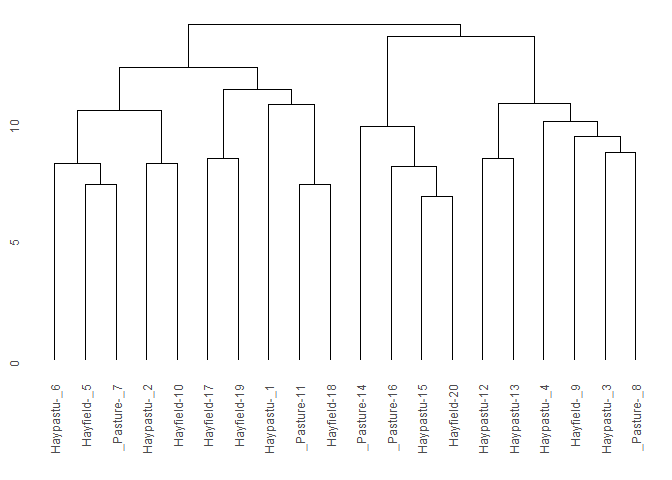
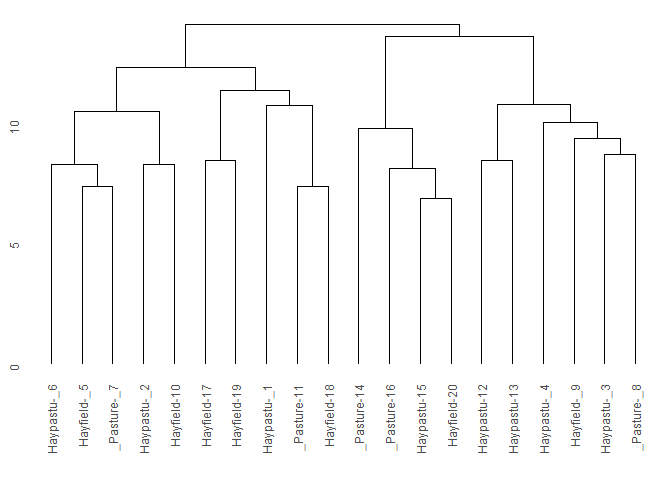
rebuild README.md and figures
Regenerated from README.Rmd with the seed fixed. Besides the p-values
now being stable, knitr 1.51 adds alt="" to image tags and the package
startup messages differ from the previous build.

diff --git a/README.md b/README.md
@@ -8,7 +8,7 @@ The goal of ecan is to support ecological analysis.
 ``` r
 install.packages("ecan")
   # development
-  # install.packages("devtools")
+  # install.packages("remotes")
 remotes::install_github("matutosi/ecan")
 ```
 
@@ -26,9 +26,15 @@ You can read docs in <https://matutosi.github.io/ecan/>
 library(ecan)
 library(vegan)
 #> Loading required package: permute
-#> Loading required package: lattice
-#> This is vegan 2.6-6.1
 library(dplyr)
+#> 
+#> Attaching package: 'dplyr'
+#> The following objects are masked from 'package:stats':
+#> 
+#>     filter, lag
+#> The following objects are masked from 'package:base':
+#> 
+#>     intersect, setdiff, setequal, union
 library(stringr)
 library(tibble)
 library(ggplot2)
@@ -84,7 +90,7 @@ div %>%
     geom_jitter(height = 0, width = 0.1)
 ```
 
-<img src="man/figures/README-diversity-1.png" width="60%" />
+<img src="man/figures/README-diversity-1.png" alt="" width="60%" />
 
 ### Indicator Species Analysis (ISA, ind val)
 
@@ -213,13 +219,13 @@ ind_val(df, group = "Moisture", row_data = TRUE)
 #> 
 #> $pval
 #> Achimill Elymrepe Lolipere  Poaprat  Poatriv Alopgeni Bellpere Bromhord 
-#>    0.261    0.438    0.074    0.352    0.493    0.056    0.150    0.204 
+#>    0.264    0.441    0.076    0.344    0.512    0.059    0.110    0.198 
 #> Scorautu Trifrepe Agrostol Bracruta Cirsarve Sagiproc Anthodor Planlanc 
-#>    0.797    0.687    0.396    0.582    0.317    0.067    0.354    0.087 
+#>    0.823    0.676    0.366    0.613    0.300    0.073    0.326    0.096 
 #> Rumeacet Trifprat Juncbufo Eleopalu Juncarti Ranuflam Vicilath Hyporadi 
-#>    0.084    0.143    0.004    0.023    0.210    0.001    0.688    1.000 
+#>    0.093    0.136    0.002    0.023    0.206    0.002    0.703    1.000 
 #> Chenalbu Comapalu Callcusp Airaprae Salirepe Empenigr 
-#>    1.000    0.453    0.080    0.762    0.608    1.000 
+#>    1.000    0.437    0.078    0.752    0.600    1.000 
 #> 
 #> $error
 #> [1] 0
@@ -231,31 +237,31 @@ ind_val(df, group = "Management")
 #> # A tibble: 30 × 4
 #>    Management species  ind.val p.value
 #>    <fct>      <chr>      <dbl>   <dbl>
-#>  1 SF         Elymrepe   0.188   0.697
-#>  2 SF         Alopgeni   0.547   0.042
-#>  3 SF         Agrostol   0.472   0.059
+#>  1 SF         Elymrepe   0.188   0.703
+#>  2 SF         Alopgeni   0.547   0.036
+#>  3 SF         Agrostol   0.472   0.063
 #>  4 SF         Cirsarve   0.167   1    
-#>  5 SF         Sagiproc   0.241   0.574
+#>  5 SF         Sagiproc   0.241   0.525
 #>  6 SF         Chenalbu   0.167   1    
-#>  7 BF         Achimill   0.386   0.131
-#>  8 BF         Lolipere   0.45    0.066
-#>  9 BF         Poaprat    0.379   0.181
-#> 10 BF         Bellpere   0.362   0.154
+#>  7 BF         Achimill   0.386   0.119
+#>  8 BF         Lolipere   0.45    0.071
+#>  9 BF         Poaprat    0.379   0.211
+#> 10 BF         Bellpere   0.362   0.144
 #> # ℹ 20 more rows
 ind_val(df, group = "Use")
 #> Joining with `by = join_by(numeric_Use)`
 #> # A tibble: 30 × 4
 #>    Use      species  ind.val p.value
 #>    <ord>    <chr>      <dbl>   <dbl>
-#>  1 Haypastu Elymrepe   0.292   0.305
-#>  2 Haypastu Lolipere   0.259   0.827
-#>  3 Haypastu Poaprat    0.288   0.826
-#>  4 Haypastu Poatriv    0.451   0.113
-#>  5 Haypastu Alopgeni   0.359   0.176
-#>  6 Haypastu Agrostol   0.269   0.586
+#>  1 Haypastu Elymrepe   0.292   0.314
+#>  2 Haypastu Lolipere   0.259   0.801
+#>  3 Haypastu Poaprat    0.288   0.819
+#>  4 Haypastu Poatriv    0.451   0.116
+#>  5 Haypastu Alopgeni   0.359   0.201
+#>  6 Haypastu Agrostol   0.269   0.587
 #>  7 Haypastu Cirsarve   0.125   1    
-#>  8 Haypastu Sagiproc   0.178   0.82 
-#>  9 Haypastu Juncbufo   0.118   0.863
+#>  8 Haypastu Sagiproc   0.178   0.799
+#>  9 Haypastu Juncbufo   0.118   0.834
 #> 10 Haypastu Chenalbu   0.125   1    
 #> # ℹ 20 more rows
 ind_val(df, group = "Manure")
@@ -263,16 +269,16 @@ ind_val(df, group = "Manure")
 #> # A tibble: 30 × 4
 #>    Manure species  ind.val p.value
 #>    <ord>  <chr>      <dbl>   <dbl>
-#>  1 4      Elymrepe   0.5     0.051
-#>  2 4      Lolipere   0.351   0.215
-#>  3 4      Poaprat    0.315   0.258
-#>  4 4      Bellpere   0.248   0.47 
-#>  5 4      Cirsarve   0.333   0.298
-#>  6 2      Achimill   0.309   0.276
-#>  7 2      Poatriv    0.299   0.428
-#>  8 2      Bromhord   0.173   0.712
-#>  9 2      Anthodor   0.178   0.76 
-#> 10 2      Rumeacet   0.522   0.047
+#>  1 4      Elymrepe   0.5     0.039
+#>  2 4      Lolipere   0.351   0.194
+#>  3 4      Poaprat    0.315   0.279
+#>  4 4      Bellpere   0.248   0.474
+#>  5 4      Cirsarve   0.333   0.294
+#>  6 2      Achimill   0.309   0.278
+#>  7 2      Poatriv    0.299   0.432
+#>  8 2      Bromhord   0.173   0.713
+#>  9 2      Anthodor   0.178   0.761
+#> 10 2      Rumeacet   0.522   0.038
 #> # ℹ 20 more rows
 ```
 
@@ -286,7 +292,7 @@ library(dendextend)
 #>   rev.hclust vegan
 #> 
 #> ---------------------
-#> Welcome to dendextend version 1.17.1
+#> Welcome to dendextend version 1.19.1
 #> Type citation('dendextend') for how to cite the package.
 #> 
 #> Type browseVignettes(package = 'dendextend') for the package vignette.
@@ -314,7 +320,7 @@ cls <- cluster(dune, c_method = "average", d_method = "euclidean")
 ggdendro::ggdendrogram(cls)
 ```
 
-<img src="man/figures/README-cluster-1.png" width="60%" />
+<img src="man/figures/README-cluster-1.png" alt="" width="60%" />
 
 ``` r
 
@@ -325,7 +331,7 @@ ggdendro::ggdendrogram(cls_add_group(cls, df, indiv, group))
 #> Joining with `by = join_by(stand)`
 ```
 
-<img src="man/figures/README-cluster-2.png" width="60%" />
+<img src="man/figures/README-cluster-2.png" alt="" width="60%" />
 
 ``` r
 
@@ -344,7 +350,7 @@ par(new = TRUE)
 plot(cls)
 ```
 
-<img src="man/figures/README-cluster-3.png" width="60%" />
+<img src="man/figures/README-cluster-3.png" alt="" width="60%" />
 
 ### Ordination
 
@@ -363,7 +369,7 @@ ord_dca_st %>%
   geom_text()
 ```
 
-<img src="man/figures/README-ordination-1.png" width="60%" />
+<img src="man/figures/README-ordination-1.png" alt="" width="60%" />
 
 ``` r
 
@@ -381,7 +387,7 @@ ord_pca_sp %>%
   theme_bw()
 ```
 
-<img src="man/figures/README-ordination-2.png" width="60%" />
+<img src="man/figures/README-ordination-2.png" alt="" width="60%" />
 
 ## Citation
 
